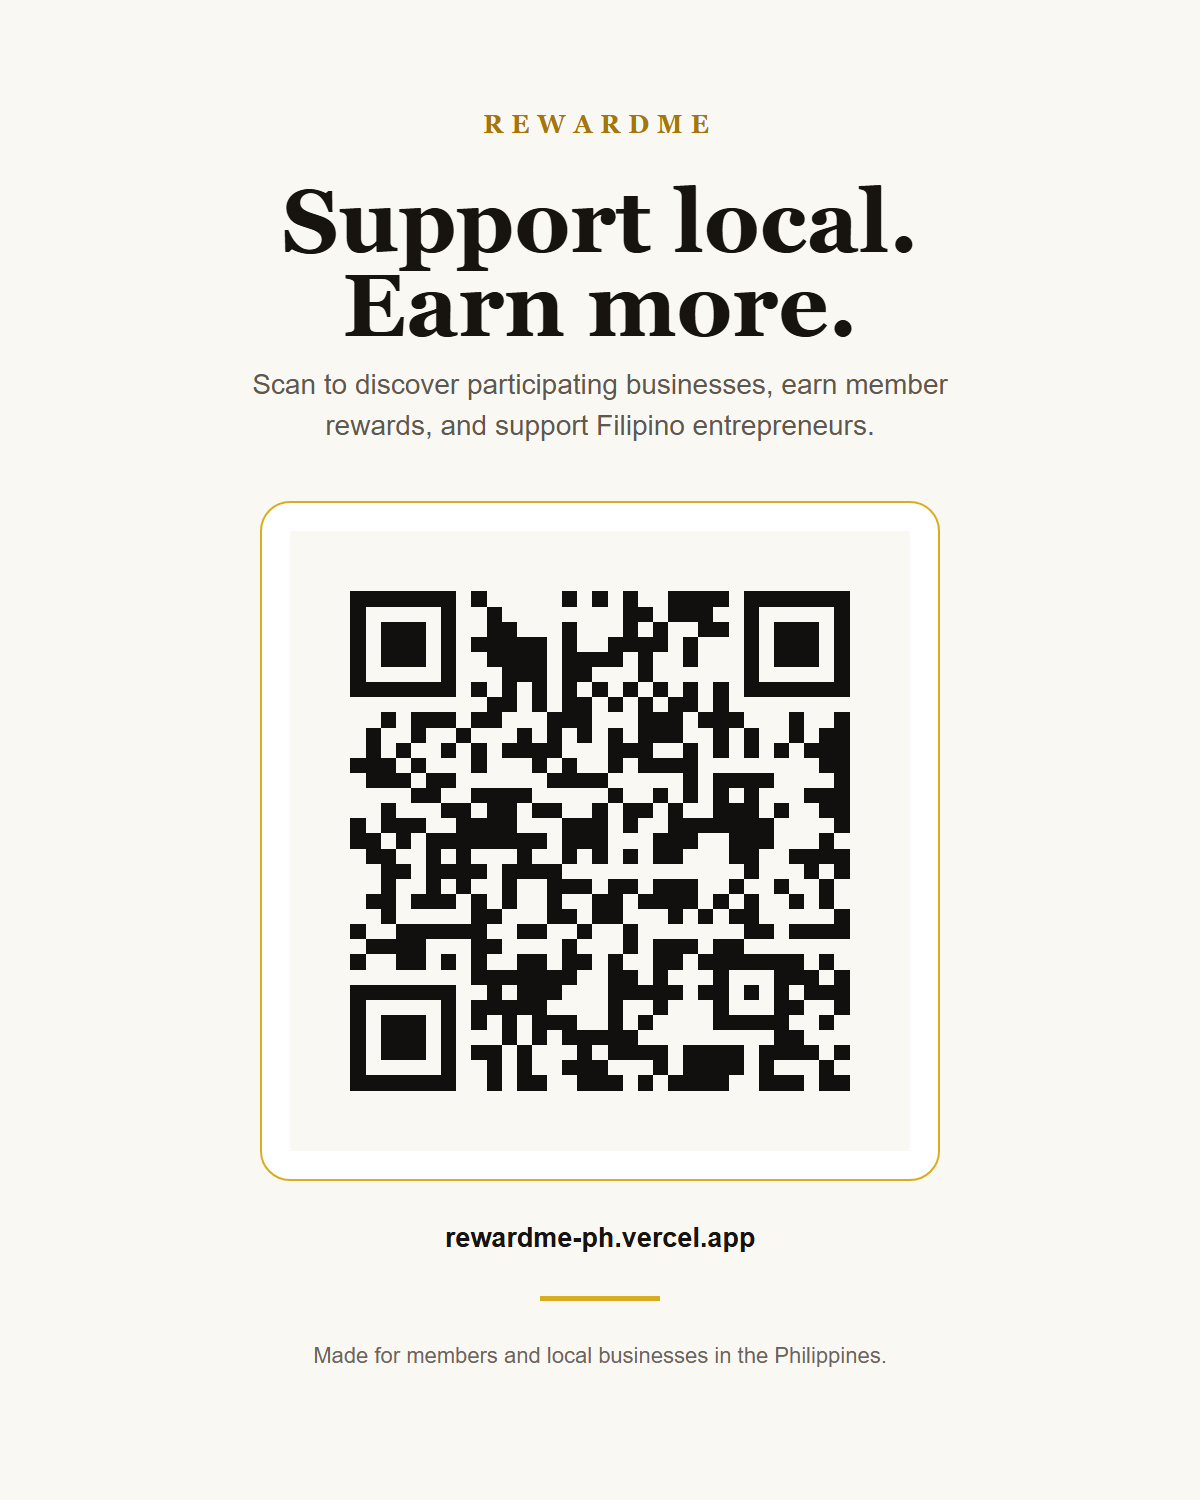
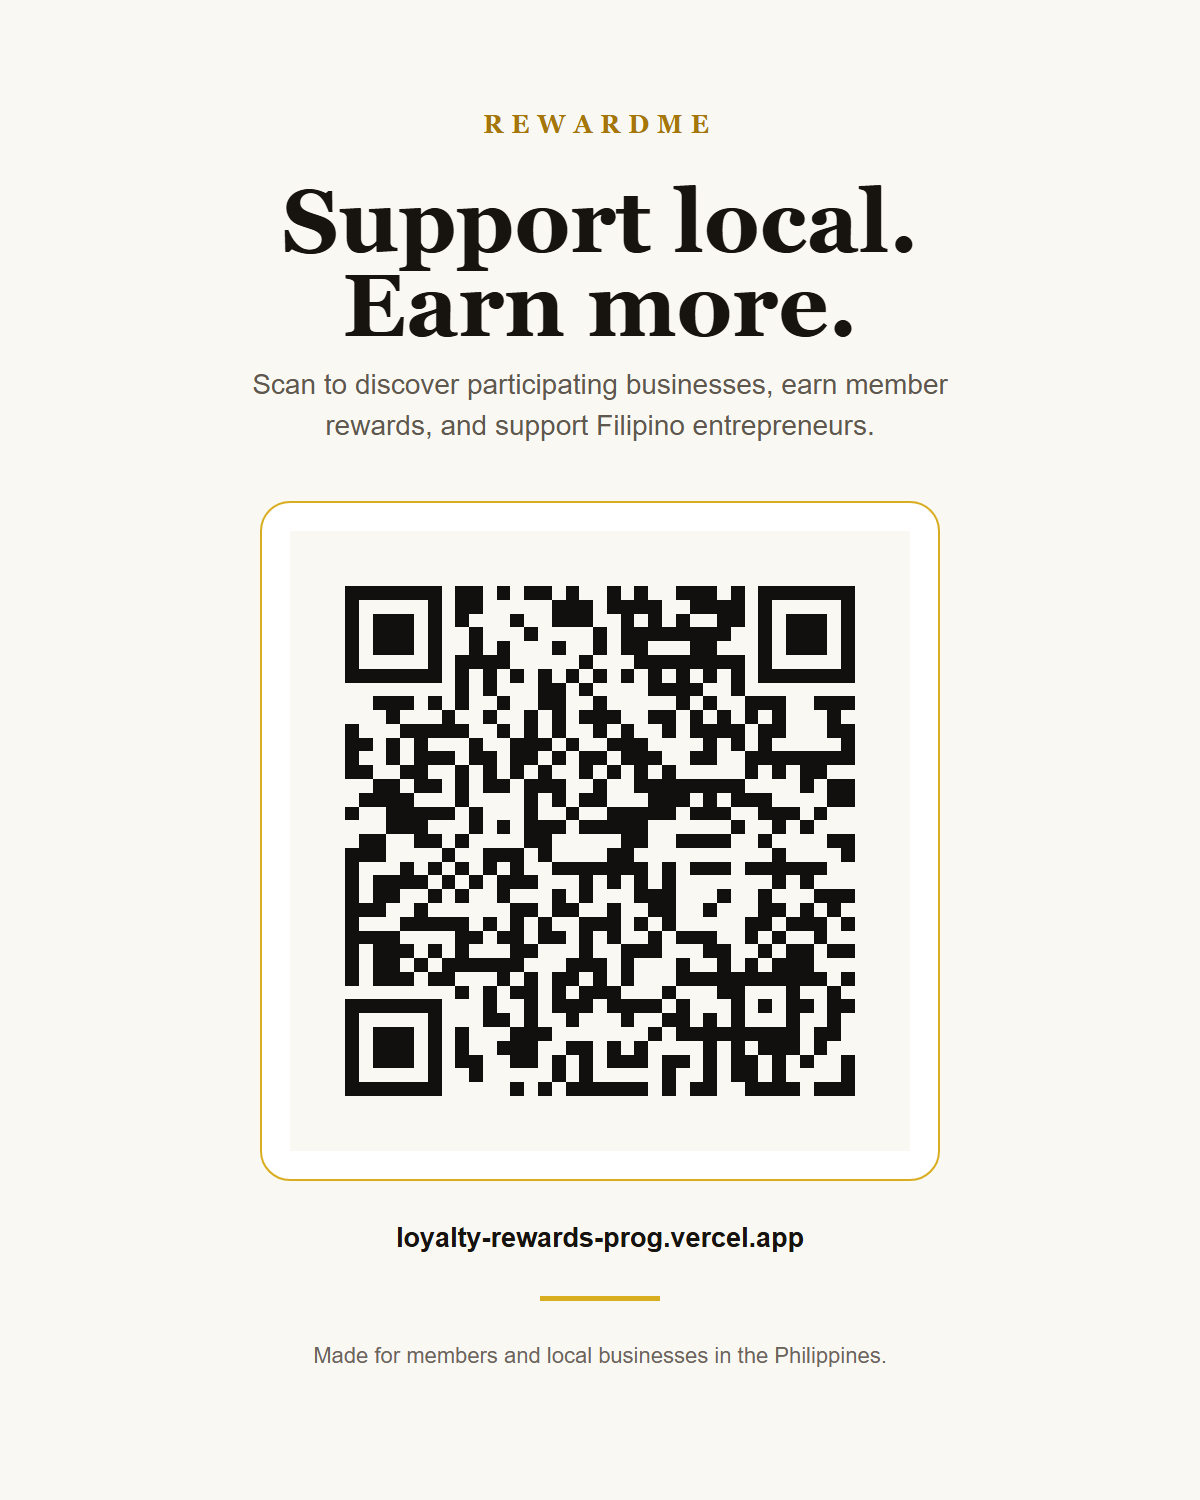
Use live canonical host for RewardMe

Changed region(s): [[0.2775, 0.368, 0.74, 0.736], [0.3392, 0.7973, 0.6783, 0.8587]]

diff --git a/src/lib/tenant-public-discovery.test.ts b/src/lib/tenant-public-discovery.test.ts
@@ -10,7 +10,7 @@ import {
 const verifiedTenants = [
   ['www.medellinrewards.com', 'https://www.medellinrewards.com'],
   ['guatemalarewards.com', 'https://guatemalarewards.com'],
-  ['rewardme-ph.vercel.app', 'https://rewardme-ph.vercel.app'],
+  ['loyalty-rewards-prog.vercel.app', 'https://loyalty-rewards-prog.vercel.app'],
   ['wondertown-rewards.vercel.app', 'https://wondertown-rewards.vercel.app'],
 ] as const
 
@@ -47,7 +47,7 @@ describe('host-aware public discovery documents', () => {
 
   it('accepts case and a transport port without broadening the hostname allowlist', () => {
     expect(resolveDiscoveryOrigin('WWW.MEDELLINREWARDS.COM:443')).toBe('https://www.medellinrewards.com')
-    expect(resolveDiscoveryOrigin('pinas-rewards.vercel.app')).toBe('https://rewardme-ph.vercel.app')
+    expect(resolveDiscoveryOrigin('pinas-rewards.vercel.app')).toBe('https://loyalty-rewards-prog.vercel.app')
   })
 
   it.each([
@@ -65,9 +65,9 @@ describe('host-aware public discovery documents', () => {
   })
 
   it('never includes protected portal routes in a tenant sitemap', () => {
-    const sitemap = buildSitemapDocument('rewardme-ph.vercel.app')
+    const sitemap = buildSitemapDocument('loyalty-rewards-prog.vercel.app')
     for (const path of ['/admin', '/dashboard', '/profile', '/orders', '/cart', '/business/dashboard']) {
-      expect(sitemap).not.toContain(`<loc>https://rewardme-ph.vercel.app${path}`)
+      expect(sitemap).not.toContain(`<loc>https://loyalty-rewards-prog.vercel.app${path}`)
     }
   })
 })

diff --git a/src/features/tenant/tenant-service.ts b/src/features/tenant/tenant-service.ts
@@ -95,7 +95,7 @@ const programSlugByHost: Record<string, keyof typeof programs> = {
   'www.guatemalarewards.com': 'guatemala',
   'guatemala.localhost': 'guatemala',
   'synergize.localhost': 'synergize',
-  'rewardme-ph.vercel.app': 'pinas',
+  'loyalty-rewards-prog.vercel.app': 'pinas',
   'pinas-rewards.vercel.app': 'pinas', // Legacy redirect host.
   'pinas.localhost': 'pinas',
   'wondertown-rewards.vercel.app': 'wondertown',
@@ -124,7 +124,6 @@ export function canUseTenantPreviewOverride(hostname: string) {
   return host === 'localhost'
     || host.startsWith('127.')
     || host.endsWith('.localhost')
-    || host === 'rewardme-ph.vercel.app'
     || host === 'pinas-rewards.vercel.app'
     || host === 'wondertown-rewards.vercel.app'
     || host.endsWith('.rewardsplatform.app')
@@ -192,7 +191,7 @@ export async function resolveProgram(hostname: string): Promise<Program> {
     p_hostname: resolutionHostname.split(':')[0].toLowerCase(),
   })
   if (!error && data && Array.isArray(data) && data[0]) return mapProgram(data[0] as Record<string, unknown>)
-  if (canUseTenantOverride) return getFallbackProgram(hostname)
+  if (canUseTenantOverride || inferTenantSlugHint(hostname) !== null) return getFallbackProgram(hostname)
   throw new Error('program_not_found')
 }
 

diff --git a/src/lib/rewardme-branding.test.ts b/src/lib/rewardme-branding.test.ts
@@ -55,9 +55,10 @@ describe('RewardMe flagship branding', () => {
     const deployment = readFileSync('scripts/deploy-tenant-sites.mjs', 'utf8')
     const vercel = readFileSync('vercel.json', 'utf8')
 
-    expect(discovery).toContain("'rewardme-ph.vercel.app': 'https://rewardme-ph.vercel.app'")
-    expect(deployment).toContain("aliases: ['rewardme-ph.vercel.app'")
-    expect(vercel).toContain('"destination": "https://rewardme-ph.vercel.app/:path*"')
+    expect(discovery).toContain("'loyalty-rewards-prog.vercel.app': 'https://loyalty-rewards-prog.vercel.app'")
+    expect(deployment).toContain("primaryProject: 'loyalty-rewards-prog'")
+    expect(deployment).toContain("aliases: ['pinas-rewards.vercel.app', 'wondertown-rewards.vercel.app']")
+    expect(vercel).toContain('"destination": "https://loyalty-rewards-prog.vercel.app/:path*"')
   })
 
   it('does not hardcode the Medellin wordmark in public page chrome', () => {

diff --git a/src/lib/rewardme-pitch-alignment.test.ts b/src/lib/rewardme-pitch-alignment.test.ts
@@ -21,9 +21,9 @@ describe('RewardMe pitch alignment', () => {
     expect(migrationPackage).toContain('"programName": "RewardMe"')
     expect(migrationPackage).toContain('"sourceSystem": "RewardMe platform"')
     expect(migrationPackage).toContain('"slug": "pinas"')
-    expect(migrationPackage).toContain('"primaryDomain": "rewardme-ph.vercel.app"')
+    expect(migrationPackage).toContain('"primaryDomain": "loyalty-rewards-prog.vercel.app"')
     expect(migrationPackage).toContain('"emailFromAddress": ""')
-    expect(canonicalMigration).toContain("hostname = 'rewardme-ph.vercel.app'")
+    expect(canonicalMigration).toContain("hostname = 'loyalty-rewards-prog.vercel.app'")
     expect(canonicalMigration).toContain("support_email = 'support@rewardme.ph'")
     expect(canonicalMigration).toContain("email_from_address = ''")
   })

diff --git a/tests/run-tests.ts b/tests/run-tests.ts
@@ -2419,7 +2419,7 @@ runTest('active tenant operations use RewardMe and always verify canonical produ
   assert.deepEqual(rewardMe, {
     slug: 'pinas',
     status: 'pending',
-    hostname: 'rewardme-ph.vercel.app',
+    hostname: 'loyalty-rewards-prog.vercel.app',
     senderEmail: null,
     monitor: true,
   })
@@ -2452,7 +2452,7 @@ runTest('active tenant operations use RewardMe and always verify canonical produ
   assert.match(domainReadiness, /Expected deployed version/)
 
   for (const [hostname, tenantName] of [
-    ['rewardme-ph.vercel.app', 'RewardMe'],
+    ['loyalty-rewards-prog.vercel.app', 'RewardMe'],
     ['www.medellinrewards.com', 'Medellin Rewards'],
     ['guatemalarewards.com', 'Guatemala Rewards'],
     ['wondertown-rewards.vercel.app', 'Wondertown Rewards'],

diff --git a/src/lib/cross-tenant-runtime.test.ts b/src/lib/cross-tenant-runtime.test.ts
@@ -17,10 +17,10 @@ describe('cross-tenant runtime safeguards', () => {
   it('uses the browser tenant origin before a global configured fallback', () => {
     expect(resolveTenantPublicSiteUrl(
       'https://medellinrewards.com',
-      'https://rewardme-ph.vercel.app',
+      'https://loyalty-rewards-prog.vercel.app',
     )).toBe('https://medellinrewards.com')
-    expect(resolveTenantPublicSiteUrl(undefined, 'https://rewardme-ph.vercel.app/path')).toBe(
-      'https://rewardme-ph.vercel.app',
+    expect(resolveTenantPublicSiteUrl(undefined, 'https://loyalty-rewards-prog.vercel.app/path')).toBe(
+      'https://loyalty-rewards-prog.vercel.app',
     )
     expect(resolveTenantPublicSiteUrl('javascript:alert(1)', undefined)).toBe('')
   })

diff --git a/public/tenant-bootstrap.js b/public/tenant-bootstrap.js
@@ -45,7 +45,7 @@
     'www.medellinrewards.com': 'medellin',
     'guatemalarewards.com': 'guatemala',
     'www.guatemalarewards.com': 'guatemala',
-    'rewardme-ph.vercel.app': 'pinas',
+    'loyalty-rewards-prog.vercel.app': 'pinas',
     'pinas-rewards.vercel.app': 'pinas', // Legacy redirect host.
     'pinas.localhost': 'pinas',
     'wondertown-rewards.vercel.app': 'wondertown',
@@ -53,7 +53,6 @@
   }
   var canUsePreviewOverride = hostname === 'localhost'
     || hostname.indexOf('127.') === 0
-    || hostname === 'rewardme-ph.vercel.app'
     || hostname === 'pinas-rewards.vercel.app'
     || hostname === 'wondertown-rewards.vercel.app'
     || hostname.endsWith('.rewardsplatform.app')

diff --git a/api/_tenant-public-discovery.ts b/api/_tenant-public-discovery.ts
@@ -1,8 +1,8 @@
 const tenantOrigins = {
   'www.medellinrewards.com': 'https://www.medellinrewards.com',
   'guatemalarewards.com': 'https://guatemalarewards.com',
-  'rewardme-ph.vercel.app': 'https://rewardme-ph.vercel.app',
-  'pinas-rewards.vercel.app': 'https://rewardme-ph.vercel.app',
+  'loyalty-rewards-prog.vercel.app': 'https://loyalty-rewards-prog.vercel.app',
+  'pinas-rewards.vercel.app': 'https://loyalty-rewards-prog.vercel.app',
   'wondertown-rewards.vercel.app': 'https://wondertown-rewards.vercel.app',
 } as const
 

diff --git a/tests/e2e/public.spec.ts b/tests/e2e/public.spec.ts
@@ -41,7 +41,7 @@ test.describe('public acquisition workflow', () => {
     const expectedOrigin = new Map([
       ['www.medellinrewards.com', 'https://www.medellinrewards.com'],
       ['guatemalarewards.com', 'https://guatemalarewards.com'],
-      ['rewardme-ph.vercel.app', 'https://rewardme-ph.vercel.app'],
+      ['loyalty-rewards-prog.vercel.app', 'https://loyalty-rewards-prog.vercel.app'],
     ]).get(hostname)
     const robots = await request.get('/robots.txt')
     expect(robots.ok()).toBeTruthy()

diff --git a/src/lib/tenant-install-brand.test.ts b/src/lib/tenant-install-brand.test.ts
@@ -13,7 +13,7 @@ const tenantCases = [
   ['medellinrewards.com', 'medellin', 'Medellin Rewards'],
   ['guatemalarewards.com', 'guatemala', 'Guatemala Rewards'],
   ['synergize-business-group.vercel.app', 'synergize', 'Synergize'],
-  ['rewardme-ph.vercel.app', 'pinas', 'RewardMe'],
+  ['loyalty-rewards-prog.vercel.app', 'pinas', 'RewardMe'],
   ['wondertown-rewards.vercel.app', 'wondertown', 'Wondertown Rewards'],
 ] as const
 

diff --git a/src/features/tenant/tenant-service.test.ts b/src/features/tenant/tenant-service.test.ts
@@ -23,7 +23,7 @@ describe('tenant resolution fallback', () => {
     ['synergize.rewardsplatform.app', 'synergize'],
     ['synergize.localhost', 'synergize'],
     ['pinas.localhost', 'pinas'],
-    ['rewardme-ph.vercel.app', 'pinas'],
+    ['loyalty-rewards-prog.vercel.app', 'pinas'],
     ['pinas-rewards.vercel.app', 'pinas'],
     ['wondertown-rewards.vercel.app', 'wondertown'],
   ])('maps %s to %s', (hostname, slug) => {

diff --git a/api/_tenant-install-brand.ts b/api/_tenant-install-brand.ts
@@ -87,7 +87,7 @@ const hostSlugs: Record<string, InstallBrandSlug> = {
   'guatemalarewards.com': 'guatemala',
   'www.guatemalarewards.com': 'guatemala',
   'synergize-business-group.vercel.app': 'synergize',
-  'rewardme-ph.vercel.app': 'pinas',
+  'loyalty-rewards-prog.vercel.app': 'pinas',
   'pinas-rewards.vercel.app': 'pinas', // Legacy redirect host.
   'wondertown-rewards.vercel.app': 'wondertown',
 }
